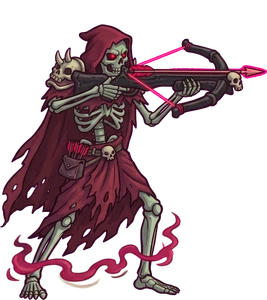
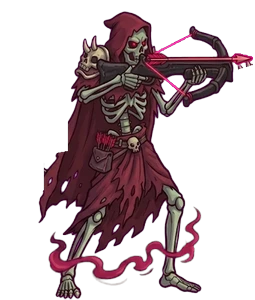
Ağır arbaletçiler 4 pozla atar: hazır, nişan, geri tepme, kurma kolunu çevirerek dolum (Gemini, arbaletci_poz_isle.py)

diff --git a/sinir-kalesi/js/game.js b/sinir-kalesi/js/game.js
@@ -5454,7 +5454,8 @@ const XBOW_T = {
 // tip: atış pozunda okun çıktığı nokta (görsel kesri), spd: mermi hızı (px/sn), arc: kavis (uzaklığın kesri; okçular yüksek atar)
 const MEN = {
   base: { pre: 'unit_xbow', pose: '_aim', aim: 0.3, kick: 0.16, hold: 0.55, tip: [0.99, 0.24], n: (t) => t.lvl + 1, col: '140,255,150', spd: 720, arc: 0.06 },
-  fan:  { pre: 'unit_ghostxbow', pose: '_aim', aim: 0.46, kick: 0.3, hold: 0.85, tip: [0.99, 0.24], n: () => 2, col: '255,80,90', spd: 820, arc: 0.035, heavy: true },
+  fan:  { pre: 'unit_ghostxbow', pose: '_aim', aim: 0.46, kick: 0.3, hold: 1.25, tip: [0.989, 0.189], n: () => 2, col: '255,80,90', spd: 820, arc: 0.035, heavy: true,
+    seq: [[0.35, ''], [1, '_aim']], relPose: '_kick', rel: 0.22, load: 0.85 }, // Gemini 4 poz (arbaletci_poz_isle.py): hazır → nişan → geri tepme → kurma kolunu çevirerek dolum
   bow:  { pre: 'unit_ghostarcher', pose: '_draw', aim: 0.42, kick: 0.12, hold: 0.32, tip: [0.98, 0.237], n: () => 3, col: '255,90,130', spd: 420, arc: 0.26, bow: true,
     seq: [[0.3, '_nock'], [0.62, '_half'], [1, '_draw']], rel: 0.26 }, // yay germe kareleri (Gemini 5 poz, varliklar/okcu_poz_isle.py): ok takma → yarım → tam germe; bırakınca _rel
 };
@@ -5533,7 +5534,8 @@ function drawXbowMen(t, ts, redraw) {
     if (ghost) { ctx.save(); ctx.globalCompositeOperation = 'lighter'; glow(ctx, f.x, f.y - h * 0.15, h * 0.45, '255,60,80', 0.2 + (up ? 0.12 : 0)); ctx.restore(); }
     const rise = a.aimT > 0 ? (1 - a.aimT / M.aim) : 1; // nişana kalkış / yay germe (0..1)
     let pose = up ? M.pose : '';
-    if (M.seq && up) pose = a.aimT > 0 ? M.seq.find(q => rise <= q[0])[1] : M.kick - a.kickT < M.rel ? '_rel' : ''; // okçu: germe sırası, bırakınca kısa bir an _rel, sonra yay iner
+    const sinceRel = M.kick - a.kickT; // bırakmadan bu yana geçen süre
+    if (M.seq && up) pose = a.aimT > 0 ? M.seq.find(q => rise <= q[0])[1] : sinceRel < M.rel ? M.relPose || '_rel' : M.load && sinceRel < M.rel + M.load ? '_load' : ''; // germe/nişan sırası, bırakma pozu, (arbalette) kurma
     const im = spr(pre + pose) || spr(up ? pre + M.pose : pre); if (!im) continue;
     ctx.save(); ctx.translate(f.x, f.y); ctx.scale(a.face, 1);
     const bob = a.walking ? Math.abs(Math.sin(a.anim * 9)) * h * 0.04 : Math.sin(a.anim * 2) * h * 0.012; // yürürken sekme, dururken nefes
@@ -5543,7 +5545,8 @@ function drawXbowMen(t, ts, redraw) {
       const tense = a.aimT > 0 ? Math.max(0, rise - 0.62) / 0.38 : 0;
       lean = -tense * 0.02 + kk * 0.03; back = Math.sin(a.anim * 40) * tense * h * 0.004 - kk * h * 0.02;
     }
-    if (M.heavy && up && kk > 0) back = h * 0.11 * kk; // ağır arbalet sert teper
+    if (M.heavy && up && kk > 0) back = h * 0.05 * kk; // ağır arbalet sert teper (poz zaten geri tepmiş)
+    if (pose === '_load') back = Math.sin(a.anim * 13) * h * 0.006; // kurma kolu çevrilirken gövde hafifçe sallanır
     ctx.translate(-h * 0.07 * kk * (M.bow ? 0 : 1) - back, -bob); ctx.rotate(lean); ctx.scale(sx, sy); drawSprite(ctx, im, 0, 0, h * im.width / im.height);
     ctx.restore();
     const o = xbowTip(t, ts, a);

diff --git a/sinir-kalesi/index.html b/sinir-kalesi/index.html
@@ -11,7 +11,7 @@
 <canvas id="game" aria-label="Sınır Kalesi oyun alanı"></canvas>
 <script>
   // Sürüm damgası: her yayında artırılır; tarayıcı eski önbellek kopyasını kullanmaz (js ve görseller).
-  window.SURUM = '286';
+  window.SURUM = '287';
   // dil: kayıtlı seçim ya da cihaz dili; tr/en dışındakiler için çeviri sözlüğü dil.js'ten önce yüklenir
   window.__dilYukle = (function () {
     var l = null; try { l = localStorage.getItem('sinirKalesi.lang'); } catch (e) {}

diff --git a/sinir-kalesi/yayin.html b/sinir-kalesi/yayin.html
@@ -11,7 +11,7 @@
 <canvas id="game" aria-label="Sınır Kalesi oyun alanı"></canvas>
 <script>
   // Sürüm damgası: her yayında artırılır; tarayıcı eski önbellek kopyasını kullanmaz (js ve görseller).
-  window.SURUM = '286';
+  window.SURUM = '287';
   // dil: kayıtlı seçim ya da cihaz dili; tr/en dışındakiler için çeviri sözlüğü dil.js'ten önce yüklenir
   window.__dilYukle = (function () {
     var l = null; try { l = localStorage.getItem('sinirKalesi.lang'); } catch (e) {}

diff --git a/varliklar/arbaletci_poz_isle.py b/varliklar/arbaletci_poz_isle.py
@@ -1,0 +1,47 @@
+"""Ağır arbaletçi poz sayfası (Gemini, 4 poz yan yana, magenta zemin; varliklar/ham/nm_agir_arbaletci_pozlari.webp) -> oyun kareleri.
+Pozlar yay/kirişle birbirine değdiği için elle ölçülmüş kesim çizgileriyle ayrılır (CUTS: her sınır için (x, y) kırık çizgisi).
+Hepsi ortak ölçekle 300 px boya, ayak ortası tuvalin ortasına gelecek şekilde aynı tuvale konur (kareler arasında karakter kaymaz).
+Çıktı: img/unit_ghostxbow (1 hazır), _aim (2 nişan), _kick (3 geri tepme), _load (4 kurma kolunu çevirerek dolum) + meta.json + manifest."""
+import json, os, sys
+import numpy as np
+from PIL import Image, ImageDraw
+from scipy import ndimage
+H0 = os.path.dirname(os.path.abspath(__file__)); sys.path.insert(0, H0)
+from anim_isle import remove_magenta
+IMG = os.path.join(H0, '..', 'sinir-kalesi', 'img')
+src = np.array(Image.open(os.path.join(H0, 'ham', 'nm_agir_arbaletci_pozlari.webp')).convert('RGB'))
+A = remove_magenta(src); Hh, Ww = A.shape[:2]
+CUTS = [[(300, 0), (300, 268), (262, 275), (262, 330), (240, 345), (240, 506)],
+        [(592, 0), (592, 132), (567, 140), (567, 205), (518, 225), (518, 506)],
+        [(840, 0), (840, 95), (800, 105), (782, 165), (772, 250), (768, 420), (777, 440), (777, 506)]]
+def region(i):
+    m = Image.new('L', (Ww, Hh), 0); d = ImageDraw.Draw(m)
+    left = CUTS[i - 1] if i > 0 else [(0, 0), (0, Hh)]; right = CUTS[i] if i < len(CUTS) else [(Ww, 0), (Ww, Hh)]
+    d.polygon(left + right[::-1], fill=255); return np.array(m) > 0
+NAMES = ['unit_ghostxbow', 'unit_ghostxbow_aim', 'unit_ghostxbow_kick', 'unit_ghostxbow_load']
+polys, boxes = [], []
+for i in range(4):
+    P = A.copy(); P[~region(i), 3] = 0
+    a = P[..., 3] > 40; lab, n = ndimage.label(a); sz = ndimage.sum(a, lab, range(1, n + 1))
+    main = lab == (int(np.argmax(sz)) + 1); near = ndimage.binary_dilation(main, iterations=3)  # komşu pozdan kalan kopuk kırıntılar atılır
+    keep = np.isin(lab, [k + 1 for k in range(n) if (near & (lab == k + 1)).any()]); P[~ndimage.binary_dilation(keep, iterations=2), 3] = 0
+    ys, xs = np.nonzero(P[..., 3] > 40); y0, y1, x0, x1 = ys.min(), ys.max() + 1, xs.min(), xs.max() + 1
+    feet = (P[y1 - 30:y1, :, 3] > 100) & (P[y1 - 30:y1, :, 1] > 110);  # kemik ayaklar (kızıl sis değil)
+    fx = np.nonzero(feet.any(0))[0]; foot = (fx.min() + fx.max()) / 2
+    polys.append(P); boxes.append((x0, y0, x1, y1, foot))
+S = 300 / max(b[3] - b[1] for b in boxes)  # en uzun poz 300 px
+half = max(max(b[4] - b[0], b[2] - b[4]) for b in boxes)
+cw, ch = int(np.ceil(2 * half * S)) + 4, 300
+meta = json.load(open(os.path.join(IMG, 'meta.json'))); mf = json.load(open(os.path.join(IMG, 'manifest.json')))
+for P, (x0, y0, x1, y1, foot), nm in zip(polys, boxes, NAMES):
+    crop = Image.fromarray(P[y0:y1, x0:x1]); w, h = round((x1 - x0) * S), round((y1 - y0) * S)
+    crop = crop.resize((w, h), Image.LANCZOS)
+    can = Image.new('RGBA', (cw, ch), (0, 0, 0, 0)); can.paste(crop, (round(cw / 2 - (foot - x0) * S), ch - h), crop)
+    can.save(os.path.join(IMG, nm + '.webp'), 'WEBP', quality=92); meta[nm] = [cw, ch]
+    if nm + '.webp' not in mf: mf.append(nm + '.webp')
+    print(nm, (x0, y0, x1, y1), round(foot))
+json.dump(meta, open(os.path.join(IMG, 'meta.json'), 'w'), separators=(',', ':')); json.dump(mf, open(os.path.join(IMG, 'manifest.json'), 'w'), indent=0)
+# tam germe pozunda ok ucunun yeri (tuval kesri): kızıl ok ucu en sağdaki parlak kırmızı piksel kümesi
+x0, y0, x1, y1, foot = boxes[1]; P = polys[1]; r, g, b, a = [P[..., k].astype(int) for k in range(4)]
+red = (a > 100) & (r > 200) & (g < 120); ys, xs = np.nonzero(red); j = xs.argmax(); tx, ty = xs[j], ys[j]
+print('tip', round((cw / 2 + (tx - foot) * S) / cw, 3), round(1 - (y1 - ty) * S / ch, 3), 'canvas', cw, ch)
